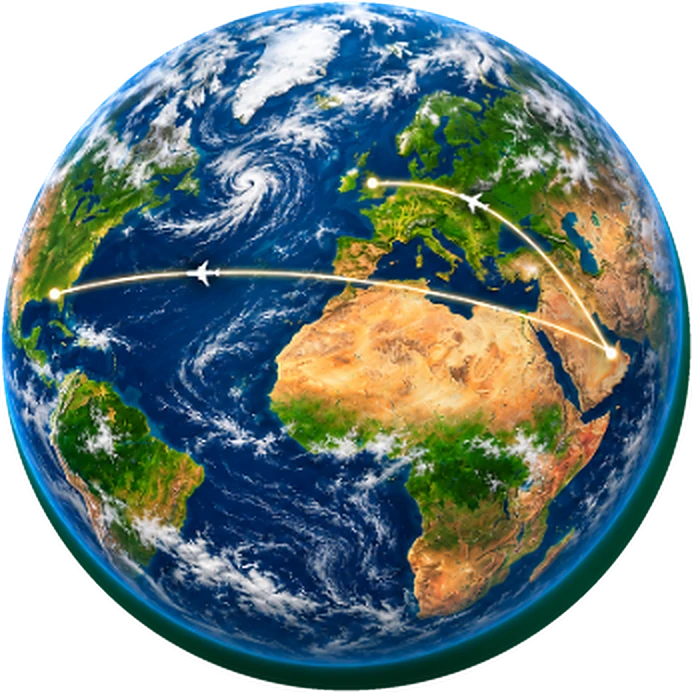
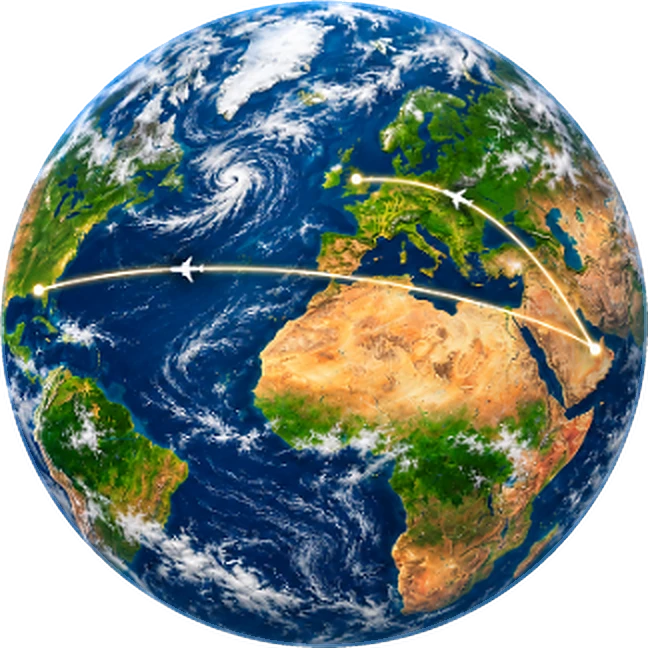
Global visa: white Schengen card, cleaner globe edge
Claude-Session: https://claude.ai/code/session_01Q8SfPFzKec2UT1Fop63zbA

diff --git a/global-visa.html b/global-visa.html
@@ -7300,6 +7300,17 @@ input, select, textarea {
   @media (max-width:640px) { .gvd-grid { margin-top:120px; } .gvd-wide { padding:150px 22px 22px; min-height:0; } .gvd-globe { width:230px; left:50%; right:auto; top:-110px; margin-left:-115px; } }
   @media (prefers-reduced-motion: reduce) { .gvd-globe { animation:none; } }
 </style>
+<style id="gvd3-css">
+  .gvd-wide { background:radial-gradient(80% 110% at 100% 0%, rgba(60,207,122,.12), transparent 60%), linear-gradient(160deg,#ffffff 0%,#f4fbf7 100%) !important; box-shadow:0 14px 36px rgba(7,63,44,.09) !important; color:#073f2c !important; }
+  .gvd-wide::after { display:none; }
+  .gvd-wide h3 { color:#073f2c !important; }
+  .gvd-wide p { color:#4a4a4a !important; }
+  .gvd-wide .gvd-tag { background:#e9f6ef !important; color:#0d9b49 !important; }
+  .gvd-wide .gvd-chips li { background:#eef7f2 !important; color:#073f2c !important; }
+  .gvd-wide .gvd-link { color:#0d9b49 !important; }
+  .gvd-wide .gvd-ic { background:linear-gradient(135deg,#3ccf7a 0%,#0d9b49 55%,#073f2c 100%) !important; box-shadow:0 8px 18px rgba(13,155,73,.25) !important; }
+  .gvd-globe { filter:drop-shadow(0 22px 30px rgba(7,63,44,.22)) !important; }
+</style>
 </head>
 
 <body>
@@ -7584,7 +7595,7 @@ input, select, textarea {
         <p class="dms-sp">Embassy visas through the offices in the Kingdom, and e-visas processed online.</p>
       </div>
       <div class="gvd-grid">
-        <article class="gvd-card gvd-wide"><img class="gvd-globe" src="assets/gv-schengen-globe.webp" alt="" width="692" height="692" loading="lazy" decoding="async"><div class="gvd-top"><span class="gvd-ic"><svg viewBox="0 0 24 24" aria-hidden="true"><path d="m12 3 2.2 5.6L20 9l-4.5 3.8L17 19l-5-3.2L7 19l1.5-6.2L4 9l5.8-.4z"/></svg></span><div class="gvd-tags"><span class="gvd-tag">Embassy visa</span></div></div><h3>Schengen visa</h3><p>One visa for travel across the Schengen countries, applied through the relevant embassy or representative office in the Kingdom.</p><ul class="gvd-chips"><li>France</li><li>Germany</li><li>Spain</li><li>Greece</li><li>Switzerland</li><li>Austria</li><li>Portugal</li><li>Netherlands</li><li>and more</li></ul><a class="gvd-link" href="https://wa.me/97317290001?text=Hi%20DMS%2C%20I%20need%20help%20with%20a%20Schengen%20visa" target="_blank" rel="noopener">Ask about this visa<svg viewBox="0 0 24 24" aria-hidden="true"><path d="M5 12h14M13 6l6 6-6 6"/></svg></a></article><article class="gvd-card "><div class="gvd-top"><span class="gvd-ic"><svg viewBox="0 0 24 24" aria-hidden="true"><path d="M5 21V4"/><path d="M5 4h11l-2 4 2 4H5"/></svg></span><div class="gvd-tags"><span class="gvd-tag">Embassy visa</span></div></div><h3>United States visa</h3><p>Application, documents and appointment support for travel to the US.</p><ul class="gvd-chips"><li>Tourist</li><li>Business</li><li>Family visit</li></ul><a class="gvd-link" href="https://wa.me/97317290001?text=Hi%20DMS%2C%20I%20need%20help%20with%20a%20US%20visa" target="_blank" rel="noopener">Ask about this visa<svg viewBox="0 0 24 24" aria-hidden="true"><path d="M5 12h14M13 6l6 6-6 6"/></svg></a></article><article class="gvd-card "><div class="gvd-top"><span class="gvd-ic"><svg viewBox="0 0 24 24" aria-hidden="true"><path d="m3 8 4.5 4L12 5l4.5 7L21 8l-2 11H5z"/></svg></span><div class="gvd-tags"><span class="gvd-tag">Embassy visa</span><span class="gvd-tag gvd-tag-e">E-visa</span></div></div><h3>United Kingdom visa</h3><p>Embassy applications and UK e-visas, with every requirement checked first.</p><ul class="gvd-chips"><li>Visit</li><li>Business</li><li>E-visa</li></ul><a class="gvd-link" href="https://wa.me/97317290001?text=Hi%20DMS%2C%20I%20need%20help%20with%20a%20UK%20visa" target="_blank" rel="noopener">Ask about this visa<svg viewBox="0 0 24 24" aria-hidden="true"><path d="M5 12h14M13 6l6 6-6 6"/></svg></a></article><article class="gvd-card gvd-span"><div class="gvd-top"><span class="gvd-ic"><svg viewBox="0 0 24 24" aria-hidden="true"><path d="M12 2v4"/><path d="M9 22l1.5-16h3L15 22"/><path d="M5 22h14"/><path d="M10 12h4"/></svg></span><div class="gvd-tags"><span class="gvd-tag gvd-tag-e">E-visa</span></div></div><h3>GCC e-visas</h3><p>Fast online visas for the Gulf, with no embassy visit needed.</p><ul class="gvd-chips"><li>UAE · Dubai</li><li>KSA</li><li>Oman</li></ul><a class="gvd-link" href="https://wa.me/97317290001?text=Hi%20DMS%2C%20I%20need%20help%20with%20a%20GCC%20e-visa" target="_blank" rel="noopener">Ask about this visa<svg viewBox="0 0 24 24" aria-hidden="true"><path d="M5 12h14M13 6l6 6-6 6"/></svg></a></article><article class="gvd-card gvd-span"><div class="gvd-top"><span class="gvd-ic"><svg viewBox="0 0 24 24" aria-hidden="true"><circle cx="12" cy="12" r="9"/><path d="M3 12h18M12 3c3 3.5 3 14.5 0 18M12 3c-3 3.5-3 14.5 0 18"/></svg></span><div class="gvd-tags"><span class="gvd-tag">Embassy visa</span><span class="gvd-tag gvd-tag-e">E-visa</span></div></div><h3>Asia &amp; beyond</h3><p>Embassy visas and e-visas for key destinations across Asia and the Americas.</p><ul class="gvd-chips"><li>Canada</li><li>China</li><li>India</li><li>Japan</li><li>Korea</li><li>Malaysia</li><li>Singapore</li><li>Russia</li><li>Turkey</li></ul><a class="gvd-link" href="https://wa.me/97317290001?text=Hi%20DMS%2C%20I%20need%20help%20with%20a%20visa" target="_blank" rel="noopener">Ask about this visa<svg viewBox="0 0 24 24" aria-hidden="true"><path d="M5 12h14M13 6l6 6-6 6"/></svg></a></article><article class="gvd-card "><div class="gvd-top"><span class="gvd-ic"><svg viewBox="0 0 24 24" aria-hidden="true"><circle cx="12" cy="12" r="9"/><path d="m15.5 8.5-2 5-5 2 2-5z"/></svg></span><div class="gvd-tags"><span class="gvd-tag">Embassy visa</span></div></div><h3>Middle East &amp; Africa</h3><p>Visa support for travel across the region and North Africa.</p><ul class="gvd-chips"><li>Egypt</li><li>Jordan</li><li>Iraq</li><li>Morocco</li><li>Algeria</li></ul><a class="gvd-link" href="https://wa.me/97317290001?text=Hi%20DMS%2C%20I%20need%20help%20with%20a%20visa" target="_blank" rel="noopener">Ask about this visa<svg viewBox="0 0 24 24" aria-hidden="true"><path d="M5 12h14M13 6l6 6-6 6"/></svg></a></article>
+        <article class="gvd-card gvd-wide"><img class="gvd-globe" src="assets/gv-schengen-globe.webp?v=2" alt="" width="648" height="648" loading="lazy" decoding="async"><div class="gvd-top"><span class="gvd-ic"><svg viewBox="0 0 24 24" aria-hidden="true"><path d="m12 3 2.2 5.6L20 9l-4.5 3.8L17 19l-5-3.2L7 19l1.5-6.2L4 9l5.8-.4z"/></svg></span><div class="gvd-tags"><span class="gvd-tag">Embassy visa</span></div></div><h3>Schengen visa</h3><p>One visa for travel across the Schengen countries, applied through the relevant embassy or representative office in the Kingdom.</p><ul class="gvd-chips"><li>France</li><li>Germany</li><li>Spain</li><li>Greece</li><li>Switzerland</li><li>Austria</li><li>Portugal</li><li>Netherlands</li><li>and more</li></ul><a class="gvd-link" href="https://wa.me/97317290001?text=Hi%20DMS%2C%20I%20need%20help%20with%20a%20Schengen%20visa" target="_blank" rel="noopener">Ask about this visa<svg viewBox="0 0 24 24" aria-hidden="true"><path d="M5 12h14M13 6l6 6-6 6"/></svg></a></article><article class="gvd-card "><div class="gvd-top"><span class="gvd-ic"><svg viewBox="0 0 24 24" aria-hidden="true"><path d="M5 21V4"/><path d="M5 4h11l-2 4 2 4H5"/></svg></span><div class="gvd-tags"><span class="gvd-tag">Embassy visa</span></div></div><h3>United States visa</h3><p>Application, documents and appointment support for travel to the US.</p><ul class="gvd-chips"><li>Tourist</li><li>Business</li><li>Family visit</li></ul><a class="gvd-link" href="https://wa.me/97317290001?text=Hi%20DMS%2C%20I%20need%20help%20with%20a%20US%20visa" target="_blank" rel="noopener">Ask about this visa<svg viewBox="0 0 24 24" aria-hidden="true"><path d="M5 12h14M13 6l6 6-6 6"/></svg></a></article><article class="gvd-card "><div class="gvd-top"><span class="gvd-ic"><svg viewBox="0 0 24 24" aria-hidden="true"><path d="m3 8 4.5 4L12 5l4.5 7L21 8l-2 11H5z"/></svg></span><div class="gvd-tags"><span class="gvd-tag">Embassy visa</span><span class="gvd-tag gvd-tag-e">E-visa</span></div></div><h3>United Kingdom visa</h3><p>Embassy applications and UK e-visas, with every requirement checked first.</p><ul class="gvd-chips"><li>Visit</li><li>Business</li><li>E-visa</li></ul><a class="gvd-link" href="https://wa.me/97317290001?text=Hi%20DMS%2C%20I%20need%20help%20with%20a%20UK%20visa" target="_blank" rel="noopener">Ask about this visa<svg viewBox="0 0 24 24" aria-hidden="true"><path d="M5 12h14M13 6l6 6-6 6"/></svg></a></article><article class="gvd-card gvd-span"><div class="gvd-top"><span class="gvd-ic"><svg viewBox="0 0 24 24" aria-hidden="true"><path d="M12 2v4"/><path d="M9 22l1.5-16h3L15 22"/><path d="M5 22h14"/><path d="M10 12h4"/></svg></span><div class="gvd-tags"><span class="gvd-tag gvd-tag-e">E-visa</span></div></div><h3>GCC e-visas</h3><p>Fast online visas for the Gulf, with no embassy visit needed.</p><ul class="gvd-chips"><li>UAE · Dubai</li><li>KSA</li><li>Oman</li></ul><a class="gvd-link" href="https://wa.me/97317290001?text=Hi%20DMS%2C%20I%20need%20help%20with%20a%20GCC%20e-visa" target="_blank" rel="noopener">Ask about this visa<svg viewBox="0 0 24 24" aria-hidden="true"><path d="M5 12h14M13 6l6 6-6 6"/></svg></a></article><article class="gvd-card gvd-span"><div class="gvd-top"><span class="gvd-ic"><svg viewBox="0 0 24 24" aria-hidden="true"><circle cx="12" cy="12" r="9"/><path d="M3 12h18M12 3c3 3.5 3 14.5 0 18M12 3c-3 3.5-3 14.5 0 18"/></svg></span><div class="gvd-tags"><span class="gvd-tag">Embassy visa</span><span class="gvd-tag gvd-tag-e">E-visa</span></div></div><h3>Asia &amp; beyond</h3><p>Embassy visas and e-visas for key destinations across Asia and the Americas.</p><ul class="gvd-chips"><li>Canada</li><li>China</li><li>India</li><li>Japan</li><li>Korea</li><li>Malaysia</li><li>Singapore</li><li>Russia</li><li>Turkey</li></ul><a class="gvd-link" href="https://wa.me/97317290001?text=Hi%20DMS%2C%20I%20need%20help%20with%20a%20visa" target="_blank" rel="noopener">Ask about this visa<svg viewBox="0 0 24 24" aria-hidden="true"><path d="M5 12h14M13 6l6 6-6 6"/></svg></a></article><article class="gvd-card "><div class="gvd-top"><span class="gvd-ic"><svg viewBox="0 0 24 24" aria-hidden="true"><circle cx="12" cy="12" r="9"/><path d="m15.5 8.5-2 5-5 2 2-5z"/></svg></span><div class="gvd-tags"><span class="gvd-tag">Embassy visa</span></div></div><h3>Middle East &amp; Africa</h3><p>Visa support for travel across the region and North Africa.</p><ul class="gvd-chips"><li>Egypt</li><li>Jordan</li><li>Iraq</li><li>Morocco</li><li>Algeria</li></ul><a class="gvd-link" href="https://wa.me/97317290001?text=Hi%20DMS%2C%20I%20need%20help%20with%20a%20visa" target="_blank" rel="noopener">Ask about this visa<svg viewBox="0 0 24 24" aria-hidden="true"><path d="M5 12h14M13 6l6 6-6 6"/></svg></a></article>
       </div>
     </section>
 
